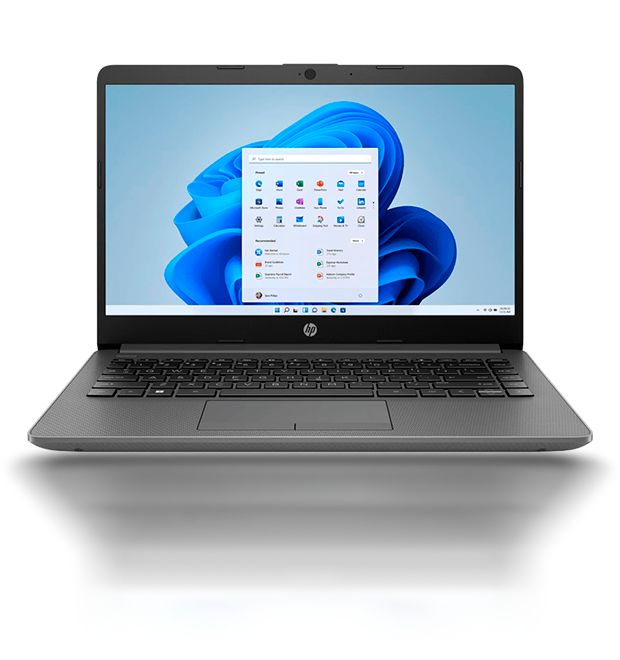
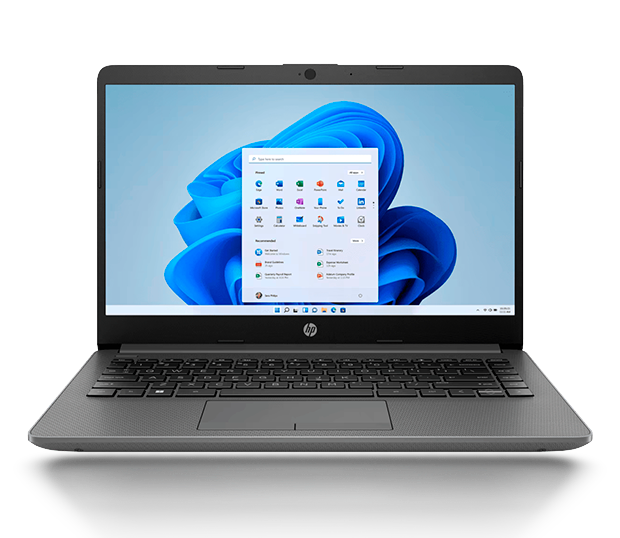
Details were improved

diff --git a/src/app/page.tsx b/src/app/page.tsx
@@ -20,11 +20,11 @@ export default function Home() {
       <section className="FirstView">
         <TypographyH2>This is the first tittle</TypographyH2>
         <TypographyP>Lorem ipsum dolor sit amet consectetur, adipisicing elit. Dolorum, aut obcaecati tempora, dicta vitae, atque sequi voluptas non praesentium labore iste officiis! Adipisci asperiores magnam a consequatur blanditiis, velit ducimus.</TypographyP>
-        <div className="flex justify-center my-8">
-          <Image src="/assets/computer.png" alt="Computer" width={400} height={200} className="object-contain" />
+        <div className="flex justify-center my-4">
+          <Image src="/assets/computer.png" alt="Computer" width={400} height={100} className="object-contain" />
         </div>
         <CallToAction></CallToAction>
-        <TypographyH2>This paragraph belongs to the icon carousel</TypographyH2>
+        <TypographyH2>This title belongs to the icon carousel</TypographyH2>
         <TypographyP>Lorem ipsum dolor sit amet consectetur adipisicing elit. Impedit praesentium possimus reiciendis est fuga amet? Ipsum quas exercitationem, accusamus atque vel, quis porro iusto, consequatur ut dolores illum voluptas. Accusamus!</TypographyP>
         <IconCarousel icons={iconUrls}></IconCarousel>
       </section>

diff --git a/src/components/videoSection.tsx b/src/components/videoSection.tsx
@@ -2,7 +2,7 @@ import { TypographyH2, TypographyP } from "./ui/typography";
 
 export function VideoSection() {
     return (
-        <section className="video-section py-8 bg-gray-100">
+        <section className="video-section py-8">
             <div className="container mx-auto px-4">
                 <TypographyH2>Video display</TypographyH2>
                 <TypographyP>Lorem ipsum dolor sit amet consectetur adipisicing elit. Magni veniam, quibusdam quod id beatae tempore vitae asperiores impedit in officia nulla aspernatur consequuntur doloremque saepe corrupti repellendus, sint repudiandae odio!</TypographyP>

diff --git a/src/components/ui/typography.tsx b/src/components/ui/typography.tsx
@@ -14,7 +14,7 @@ export function TypographyH2({ children, alignment = "center" }: TypographyProps
 
 export function TypographyP({ children, alignment = "center", fontWeight = "normal" }: TypographyProps) {
     return (
-        <p className={`leading-7 [&:not(:first-child)]:mt-6 text-${alignment} font-${fontWeight} mx-auto max-w-screen-lg`}>
+        <p className={`leading-7 [&:not(:first-child)]:mt-6 text-${alignment} font-${fontWeight} mx-auto max-w-screen-lg  my-4`}>
             {children}
         </p>
     );

diff --git a/src/components/testimonialSection.tsx b/src/components/testimonialSection.tsx
@@ -4,7 +4,7 @@ import { TypographyH2, TypographyP } from "./ui/typography";
 export default function Testimonials() {
     return (
         <section className="my-12 mx-8">
-            <div className="flex items-center justify-between">
+            <div className="flex items-center justify-between max-w-screen-lg mx-auto">
                 <div className="text-right w-1/3">
                     <TypographyH2 alignment="right">
                         These are the stories from our clients

diff --git a/src/components/callToAction.tsx b/src/components/callToAction.tsx
@@ -3,7 +3,7 @@ import { TypographyH2 } from "@/components/ui/typography";
 
 export default function CallToAction() {
     return (
-        <div className="border p-6 rounded-lg mx-9">
+        <div className="border p-6 rounded-lg max-w-screen-lg mx-auto">
             <TypographyH2>What do you need?</TypographyH2>
             <div className="grid grid-cols-2 gap-4 mt-6">
                 <Button variant="outline">Option 1</Button>
